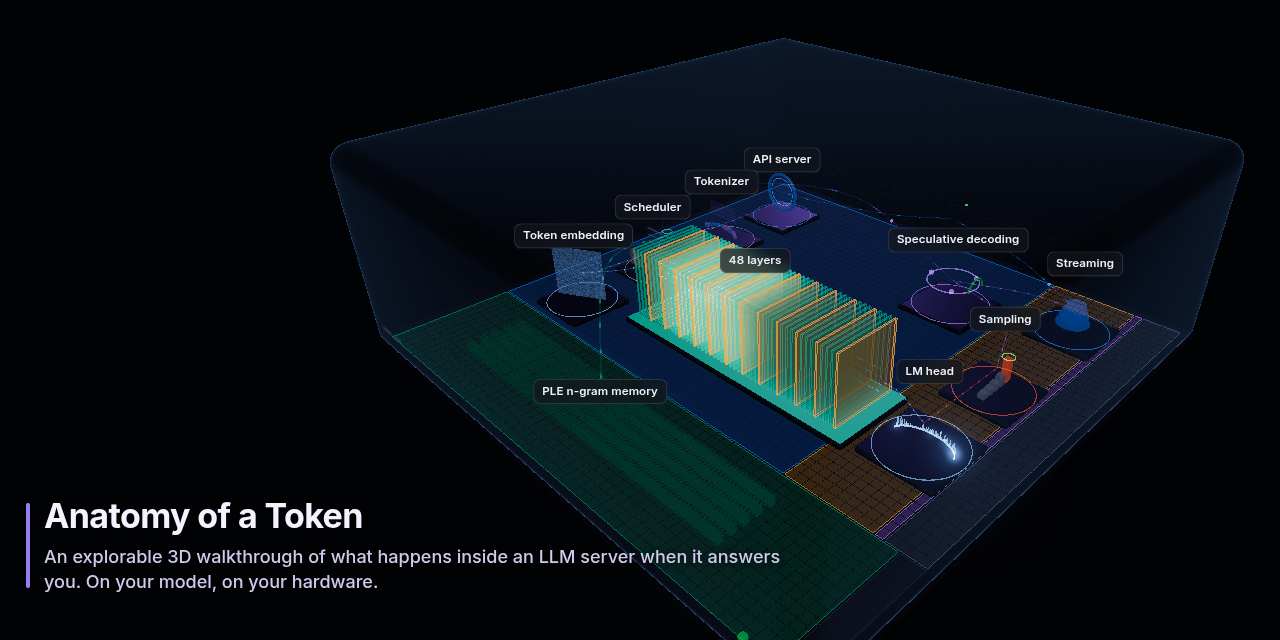
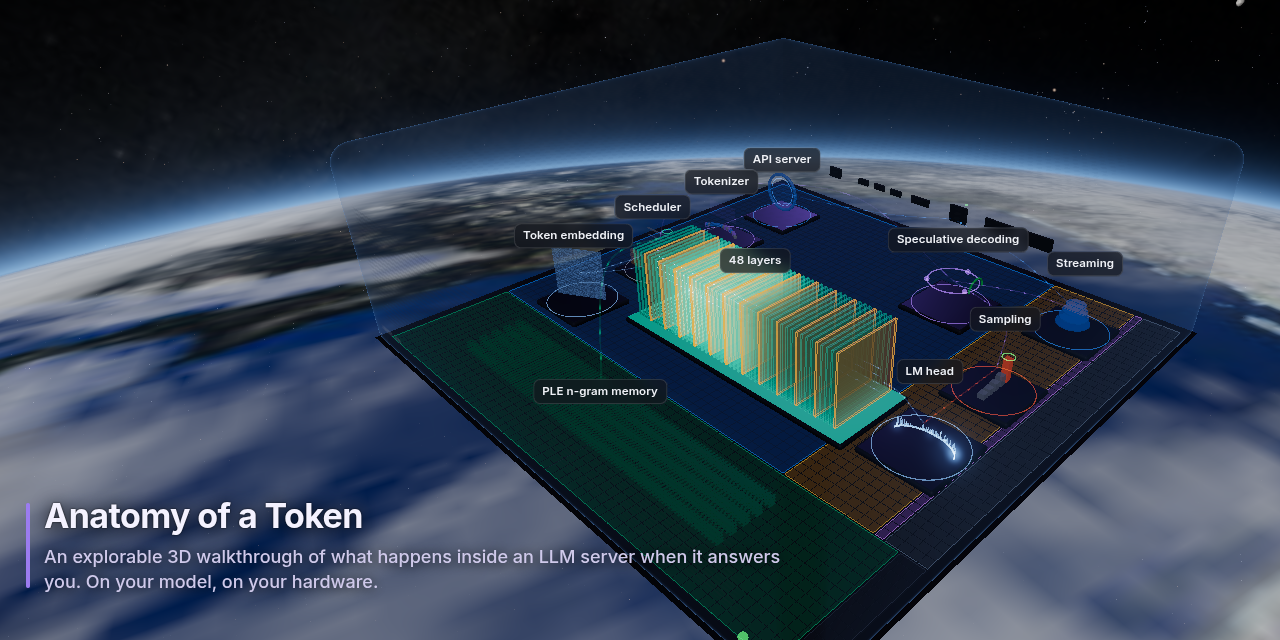
Anatomy of a Token: view from the ISS, record mode (videos from shot lists), stock-model demo, fixes

diff --git a/record/runtime.js b/record/runtime.js
@@ -46,26 +46,26 @@
     for (const cb of q.values()) run(cb, [t]);
   }
 
-  /* ── Overlay: captions and title cards ── */
+  /* ── Overlay: captions and title cards (rec-* class names: the page's theme already styles .card) ── */
   let ov = null;
   function overlay() {
     if (ov) return ov;
     const st = document.createElement('style');
     st.textContent = `
       #rec-ov{position:fixed;inset:0;z-index:40;pointer-events:none;font-family:Inter,system-ui,sans-serif;color:#f4f2ff}
-      #rec-ov .scrim{position:absolute;inset:0;background:radial-gradient(ellipse at 50% 50%,rgba(6,7,16,.55),rgba(6,7,16,.88));opacity:0}
-      #rec-ov .card{position:absolute;inset:0;display:grid;place-content:center;justify-items:center;text-align:center;gap:14px;opacity:0;padding:0 8%}
-      #rec-ov .card h1{margin:0;font-size:68px;font-weight:700;letter-spacing:-.025em;line-height:1.02;text-shadow:0 4px 40px rgba(155,124,240,.45)}
-      #rec-ov .card p{margin:0;font-size:24px;font-weight:500;color:#c9c3e6;max-width:900px;line-height:1.35}
-      #rec-ov .card .url{font-family:'JetBrains Mono',monospace;font-size:21px;color:#b9a6ff;font-weight:500;margin-top:10px;letter-spacing:-.01em}
-      #rec-ov .cap{position:absolute;left:44px;bottom:46px;max-width:var(--capw,720px);opacity:0}
-      #rec-ov .cap b{display:block;font-size:34px;font-weight:700;letter-spacing:-.018em;line-height:1.12;text-shadow:0 2px 18px rgba(0,0,0,.85),0 0 2px rgba(0,0,0,.9)}
-      #rec-ov .cap span{display:block;margin-top:10px;font-size:18px;font-weight:500;color:#cfc9ea;line-height:1.35;text-shadow:0 1px 12px rgba(0,0,0,.9)}
-      #rec-ov .cap span:empty{display:none}
-      #rec-ov .cap::before{content:"";position:absolute;left:-18px;top:6px;bottom:6px;width:4px;border-radius:4px;background:var(--capc,#9b7cf0)}`;
+      #rec-ov .rec-scrim{position:absolute;inset:0;background:radial-gradient(ellipse at 50% 50%,rgba(6,7,16,.55),rgba(6,7,16,.88));opacity:0}
+      #rec-ov .rec-card{position:absolute;inset:0;display:grid;place-content:center;justify-items:center;text-align:center;gap:14px;opacity:0;padding:0 8%}
+      #rec-ov .rec-card h1{margin:0;font-size:68px;font-weight:700;letter-spacing:-.025em;line-height:1.02;text-shadow:0 4px 40px rgba(155,124,240,.45)}
+      #rec-ov .rec-card p{margin:0;font-size:24px;font-weight:500;color:#c9c3e6;max-width:900px;line-height:1.35}
+      #rec-ov .rec-card .url{font-family:'JetBrains Mono',monospace;font-size:21px;color:#b9a6ff;font-weight:500;margin-top:10px;letter-spacing:-.01em}
+      #rec-ov .rec-cap{position:absolute;left:44px;bottom:46px;max-width:var(--capw,720px);opacity:0}
+      #rec-ov .rec-cap b{display:block;font-size:34px;font-weight:700;letter-spacing:-.018em;line-height:1.12;text-shadow:0 2px 18px rgba(0,0,0,.85),0 0 2px rgba(0,0,0,.9)}
+      #rec-ov .rec-cap span{display:block;margin-top:10px;font-size:18px;font-weight:500;color:#cfc9ea;line-height:1.35;text-shadow:0 1px 12px rgba(0,0,0,.9)}
+      #rec-ov .rec-cap span:empty{display:none}
+      #rec-ov .rec-cap::before{content:"";position:absolute;left:-18px;top:6px;bottom:6px;width:4px;border-radius:4px;background:var(--capc,#9b7cf0)}`;
     document.head.appendChild(st);
     ov = document.createElement('div'); ov.id = 'rec-ov';
-    ov.innerHTML = '<div class="scrim"></div><div class="card"><h1></h1><p></p><div class="url"></div></div><div class="cap"><b></b><span></span></div>';
+    ov.innerHTML = '<div class="rec-scrim"></div><div class="rec-card"><h1></h1><p></p><div class="url"></div></div><div class="rec-cap"><b></b><span></span></div>';
     document.body.appendChild(ov);
     return ov;
   }
@@ -107,7 +107,7 @@
       if (ev.caption && local >= ev.at && local <= ev.at + ev.caption.dur) cap = ev;
       if (ev.card && local >= ev.at && local <= ev.at + ev.card.dur) card = ev;
     }
-    const capEl = o.querySelector('.cap'), cardEl = o.querySelector('.card'), scrim = o.querySelector('.scrim');
+    const capEl = o.querySelector('.rec-cap'), cardEl = o.querySelector('.rec-card'), scrim = o.querySelector('.rec-scrim');
     if (cap) {
       if (capEl.dataset.at !== String(cap.at)) { capEl.dataset.at = cap.at; capEl.querySelector('b').textContent = fill(cap.caption.text); capEl.querySelector('span').textContent = fill(cap.caption.sub); capEl.style.setProperty('--capc', cap.caption.color || '#9b7cf0'); }
       const a = env(local, cap.at, cap.caption.dur); capEl.style.opacity = a; capEl.style.transform = `translateY(${(1 - a) * 10}px)`;
@@ -130,7 +130,7 @@
   window.__rec = {
     get t() { return t; },
     tick,
-    ready: () => !!(window.__viz && document.getElementById('loading')?.classList.contains('gone') && document.fonts.status === 'loaded'),
+    ready: () => !!(window.__viz && document.getElementById('loading')?.classList.contains('gone') && document.fonts.status === 'loaded' && (!window.__viz.S.sky || window.__viz.S.sky.ready)),
     start(s) {
       shot = s; t0 = t; fired = new Set(); orbits = [];
       if (s.capWidth) overlay().style.setProperty('--capw', s.capWidth + 'px');

diff --git a/web/js/data.js b/web/js/data.js
@@ -4,6 +4,7 @@ const CFG = Object.assign({ api: 'api/', snapshot: 'data/snapshot/', maxTokens: 
 { const q = new URLSearchParams(location.search), at = Date.parse(q.get('skyat') || ''), warp = +q.get('skywarp');
   if (/^(0|off|false)$/.test(q.get('sky') || '')) CFG.sky = null;                     // ?sky=0: the plain dark background
   else if (CFG.sky) CFG.sky = { ...CFG.sky, ...(isFinite(at) ? { at } : {}), ...(warp > 0 ? { warp } : {}) }; }   // ?skyat=ISO time, ?skywarp=60: preview another moment, faster
+if (CFG.sky && new URLSearchParams(location.search).has('record')) CFG.sky = { ...CFG.sky, orbit: null };   // recordings use the bundled orbit: same sky every render, no network
 { const s = new URLSearchParams(location.search).get('snapshot'); if (s && /^[\w-]+$/.test(s)) CFG.snapshot = `data/${s}/`; }   // ?snapshot=<folder under data/>: another saved model
 export const config = CFG;
 

diff --git a/README.md b/README.md
@@ -2,7 +2,7 @@
 
 **A step-by-step, explorable 3D walkthrough of what happens inside a language-model server when it answers a question: your question, on your model, on your hardware.**
 
-![The walkthrough on the attention step: a 3D map of the model's layers beside the step's explanation](web/preview.png)
+![The model server as an explorable 3D map, floating over the Earth in the view from the ISS](docs/social-preview.png)
 
 Type a question. The page runs it on the model your server is serving, then walks you through every stage: the tokens your text became, the vectors they turned into, every layer of the real architecture, the experts that fired, the probabilities of each word, the speculative drafts that were accepted or rejected, and every engine step of the reply as it streamed back. Each step has three depths:
 
